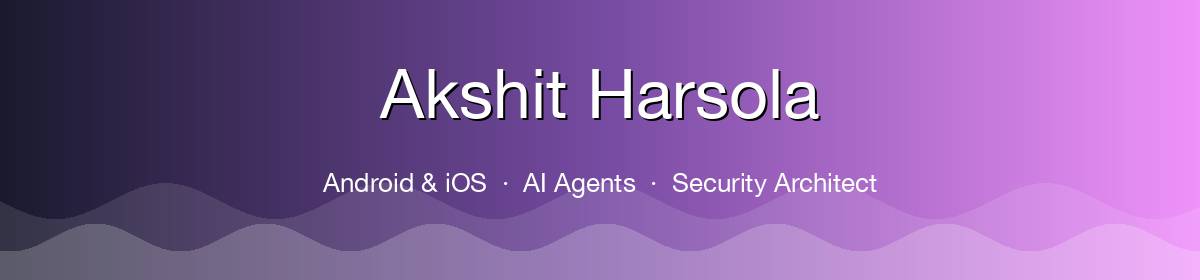
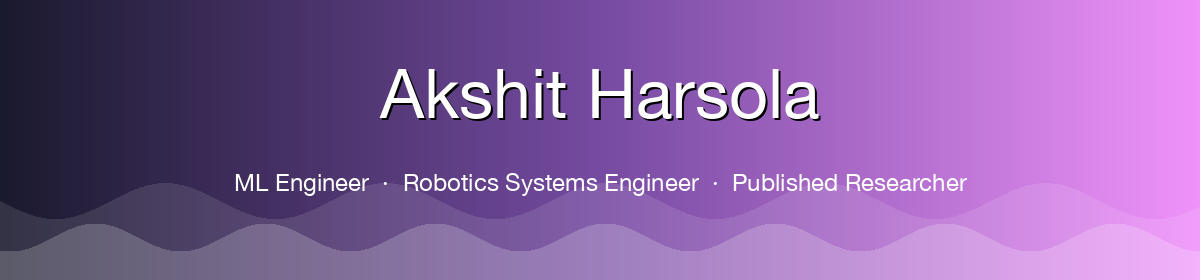
revamp: correct identity to ML Engineer + Robotics, add research publications
- Header updated: ML Engineer · Robotics Systems Engineer · Published Researcher
- Typing animation reflects actual work: Robotics, CV/Sensor Fusion, SLAM, Research
- About Me: Robotics first, CV/ML second, 3 published papers, security/AI secondary
- Tech stack: Python/C++ primary, PyTorch/TF/ROS2/RPi row added
- Featured projects: Autonomous Robotics + AutoVision front and centre
- New Research Publications section: all 3 papers with journal and date
- ORCID link added to connect section
- UTC offset corrected to +1 (Galway, Ireland)

Changed region(s): [[0.185, 0.6, 0.8017, 0.7143]]

diff --git a/README.md b/README.md
@@ -10,7 +10,7 @@
 
 <!-- TYPING ANIMATION -->
 <p align="center">
-  <img src="https://readme-typing-svg.demolab.com?font=Fira+Code&weight=600&size=22&duration=3000&pause=800&color=764ba2&center=true&vCenter=true&width=700&lines=Android+%26+iOS+Engineer+%F0%9F%93%B1;Multi-Agent+AI+Developer+%F0%9F%A7%A0;Security+Architect+%F0%9F%94%90;Full-Stack+Builder+%F0%9F%9A%80;Computer+Vision+Researcher+%F0%9F%91%81%EF%B8%8F" alt="Typing SVG" />
+  <img src="https://readme-typing-svg.demolab.com?font=Fira+Code&weight=600&size=22&duration=3000&pause=800&color=764ba2&center=true&vCenter=true&width=750&lines=ML+Engineer+%26+Robotics+Researcher+%F0%9F%A4%96;Computer+Vision+%26+Sensor+Fusion+%F0%9F%91%81%EF%B8%8F;Autonomous+Systems+%7C+ROS2+%7C+SLAM+%F0%9F%9A%97;3x+Published+Researcher+%F0%9F%93%9A;Security+%26+AI+Agent+Builder+%F0%9F%94%90" alt="Typing SVG" />
 </p>
 
 <br/>
@@ -21,22 +21,22 @@
 
 <table>
 <tr>
-<td align="center" width="28%">
-  <img src="./profile.jpg" width="180" alt="Akshit Harsola" />
+<td align="center" width="26%">
+  <img src="./profile.jpg" width="175" alt="Akshit Harsola" />
   <br/><br/>
-  <strong>Akshit Harsola</strong>
-  <br/>
-  <em>Android &amp; iOS Engineer</em>
+  <strong>Akshit Harsola</strong><br/>
+  <em>ML · Robotics · CV</em><br/>
+  <em>University of Galway 🇮🇪</em>
 </td>
-<td valign="top" width="72%">
+<td valign="top" width="74%">
 
 | | |
 |:--|:--|
-| 🔐 **Security** | Quantum-resistant Android — ML-KEM-768 + AES-256-GCM with hardware TEE |
-| 🤖 **AI Agents** | Multi-agent systems with local LLMs — Ollama, LLama2, Mistral, CodeLlama |
-| 📱 **Mobile** | Production Android (Jetpack Compose) + iOS (SwiftUI) apps |
-| 👁 **Vision** | Computer vision — OpenCV, DBSCAN, Hough Transform, ML Kit |
-| 🛡 **Philosophy** | Offline-first · Privacy-first · Zero internet permissions |
+| 🤖 **Robotics** | Autonomous systems — ROS2, SLAM, Kalman filtering, GNSS-RTK, LiDAR/IMU/camera fusion |
+| 👁 **CV & ML** | CNN architectures, TensorFlow, PyTorch — production pipelines & embedded vision |
+| 📚 **Research** | 3 published papers across computer vision, distributed systems & computational biology |
+| 🔐 **Security** | Quantum-resistant Android/iOS apps — ML-KEM-768, AES-256-GCM, biometric auth |
+| 🧠 **AI Agents** | Multi-agent systems with local LLMs — Ollama, LLama2, Mistral, CodeLlama |
 
 </td>
 </tr>
@@ -52,25 +52,25 @@
 
 **Languages**
 
-<img src="https://skillicons.dev/icons?i=kotlin,python,swift,ts,js,java" />
+<img src="https://skillicons.dev/icons?i=python,cpp,kotlin,swift,ts,js" />
+
+<br/><br/>
+
+**ML · Robotics · Vision**
+
+<img src="https://skillicons.dev/icons?i=pytorch,tensorflow,opencv,raspberrypi,arduino" />
+
+<br/><br/>
+
+**Backend · Infra · Tools**
+
+<img src="https://skillicons.dev/icons?i=fastapi,docker,git,github,linux" />
 
 <br/><br/>
 
 **Mobile & Frontend**
 
-<img src="https://skillicons.dev/icons?i=android,androidstudio,swift,react,gradle" />
-
-<br/><br/>
-
-**Backend & Infra**
-
-<img src="https://skillicons.dev/icons?i=fastapi,sqlite,postgres,git,github" />
-
-<br/><br/>
-
-**AI · ML · Tools**
-
-<img src="https://skillicons.dev/icons?i=opencv,tensorflow,selenium,vscode,figma" />
+<img src="https://skillicons.dev/icons?i=androidstudio,swift,react,gradle" />
 
 </div>
 
@@ -88,7 +88,7 @@
   <img src="https://github-profile-summary-cards.vercel.app/api/cards/repos-per-language?username=akshitharsola&theme=github_dark" />
   <img src="https://github-profile-summary-cards.vercel.app/api/cards/most-commit-language?username=akshitharsola&theme=github_dark" />
   <img src="https://github-profile-summary-cards.vercel.app/api/cards/stats?username=akshitharsola&theme=github_dark" />
-  <img src="https://github-profile-summary-cards.vercel.app/api/cards/productive-time?username=akshitharsola&theme=github_dark&utcOffset=5.5" />
+  <img src="https://github-profile-summary-cards.vercel.app/api/cards/productive-time?username=akshitharsola&theme=github_dark&utcOffset=1" />
 </div>
 
 <br/>
@@ -101,11 +101,45 @@
 <tr>
 <td width="50%">
 
+### 🦾 Autonomous Agricultural Robotics
+> Intelligent Robotics Major Project · University of Galway
+
+- Autonomous strawberry harvesting robot with **multi-sensor fusion** (LiDAR, IMU, camera, GNSS-RTK)
+- 50+ sensor readings/second · **95% localization accuracy**
+- ROS2 + Kalman filtering with RTK-GPS — position drift **< 2cm** over 100m
+- Reduced manual intervention by **70%** in field trials
+
+![Python](https://img.shields.io/badge/Python-3776AB?logo=python&logoColor=white&style=flat)
+![ROS2](https://img.shields.io/badge/ROS2-22314E?logo=ros&logoColor=white&style=flat)
+![SLAM](https://img.shields.io/badge/SLAM-FF6B35?style=flat)
+![LiDAR](https://img.shields.io/badge/LiDAR-00B4D8?style=flat)
+
+</td>
+<td width="50%">
+
+### 👁 AutoVision — Automated Object Annotation
+> Production CV pipeline · 90% detection accuracy
+
+- Reduced annotation time by **60%** (5h → 2h per 100 images)
+- Data augmentation pipeline generating **2,000+ synthetic samples**
+- **15% robustness improvement** across diverse lighting conditions
+- False positives reduced from 18% to 9%
+
+![Python](https://img.shields.io/badge/Python-3776AB?logo=python&logoColor=white&style=flat)
+![OpenCV](https://img.shields.io/badge/OpenCV-5C3EE8?logo=opencv&logoColor=white&style=flat)
+![CNN](https://img.shields.io/badge/CNN-FF6B6B?style=flat)
+![PyTorch](https://img.shields.io/badge/PyTorch-EE4C2C?logo=pytorch&logoColor=white&style=flat)
+
+</td>
+</tr>
+<tr>
+<td width="50%">
+
 ### 🔐 [Secure Vault](https://github.com/akshitharsola/Secure-Vault)
 > Quantum-resistant Android password manager
 
 - **AES-256-GCM + ML-KEM-768** hybrid post-quantum crypto
-- Hardware **TEE/Secure Element** — keys never leave the chip
+- Hardware TEE/Secure Element — keys never leave the chip
 - Biometric auth · tamper detection · clipboard auto-clear
 - **Zero internet** permissions — 100% offline
 
@@ -131,40 +165,19 @@
 
 </td>
 </tr>
-<tr>
-<td width="50%">
-
-### 🎓 [SecureAttend](https://github.com/akshitharsola/SecureAttend-Backend)
-> Triple-factor anti-proxy attendance system
-
-- **QR + Face Recognition + BLE** — all three required
-- Cryptographic session QRs with JWT auth
-- Role-based: admin · faculty · student
-- FastAPI + SQLAlchemy + Alembic
-
-![Python](https://img.shields.io/badge/Python-3776AB?logo=python&logoColor=white&style=flat)
-![Kotlin](https://img.shields.io/badge/Kotlin-7F52FF?logo=kotlin&logoColor=white&style=flat)
-![BLE](https://img.shields.io/badge/BLE-0082FC?logo=bluetooth&logoColor=white&style=flat)
-![ML_Kit](https://img.shields.io/badge/ML_Kit-4285F4?logo=google&logoColor=white&style=flat)
-
-</td>
-<td width="50%">
-
-### 🅿 Parking Spot Detection
-> Computer vision pipeline for real-time parking analysis
-
-- **DBSCAN** clustering + **Hough Transform** detection
-- Template Matching under varied lighting/occlusion
-- OpenCV + NumPy real-time pipeline
-- Robust to dynamic camera angles
-
-![Python](https://img.shields.io/badge/Python-3776AB?logo=python&logoColor=white&style=flat)
-![OpenCV](https://img.shields.io/badge/OpenCV-5C3EE8?logo=opencv&logoColor=white&style=flat)
-![NumPy](https://img.shields.io/badge/NumPy-013243?logo=numpy&logoColor=white&style=flat)
-
-</td>
-</tr>
 </table>
+
+<br/>
+
+---
+
+## 📰 Research Publications
+
+| Year | Paper | Journal |
+|:--|:--|:--|
+| Apr 2025 | Micro-Expression Recognition for Lie Detection Using Image Processing | Int. Journal of Science, Engineering & Technology |
+| Feb 2024 | Integrating Blockchain and 5G Technologies for Enhanced Edge Computing | Int. Journal of Recent Advances in Multidisciplinary Topics |
+| Jan 2024 | Utilizing AlphaFold Predictions to Understand Protein Function and Dynamics | Int. Research Journal of Modernization in Engineering Technology |
 
 <br/>
 
@@ -213,6 +226,7 @@
 
 [![LinkedIn](https://img.shields.io/badge/LinkedIn-0A66C2?style=for-the-badge&logo=linkedin&logoColor=white)](https://www.linkedin.com/in/akshit-harsola-17b478216/)
 [![Gmail](https://img.shields.io/badge/Gmail-EA4335?style=for-the-badge&logo=gmail&logoColor=white)](mailto:harsolaakshit@gmail.com)
+[![ORCID](https://img.shields.io/badge/ORCID-A6CE39?style=for-the-badge&logo=orcid&logoColor=white)](https://orcid.org/0009-0002-6243-5192)
 [![GitHub](https://img.shields.io/badge/GitHub-181717?style=for-the-badge&logo=github&logoColor=white)](https://github.com/akshitharsola)
 
 </p>
